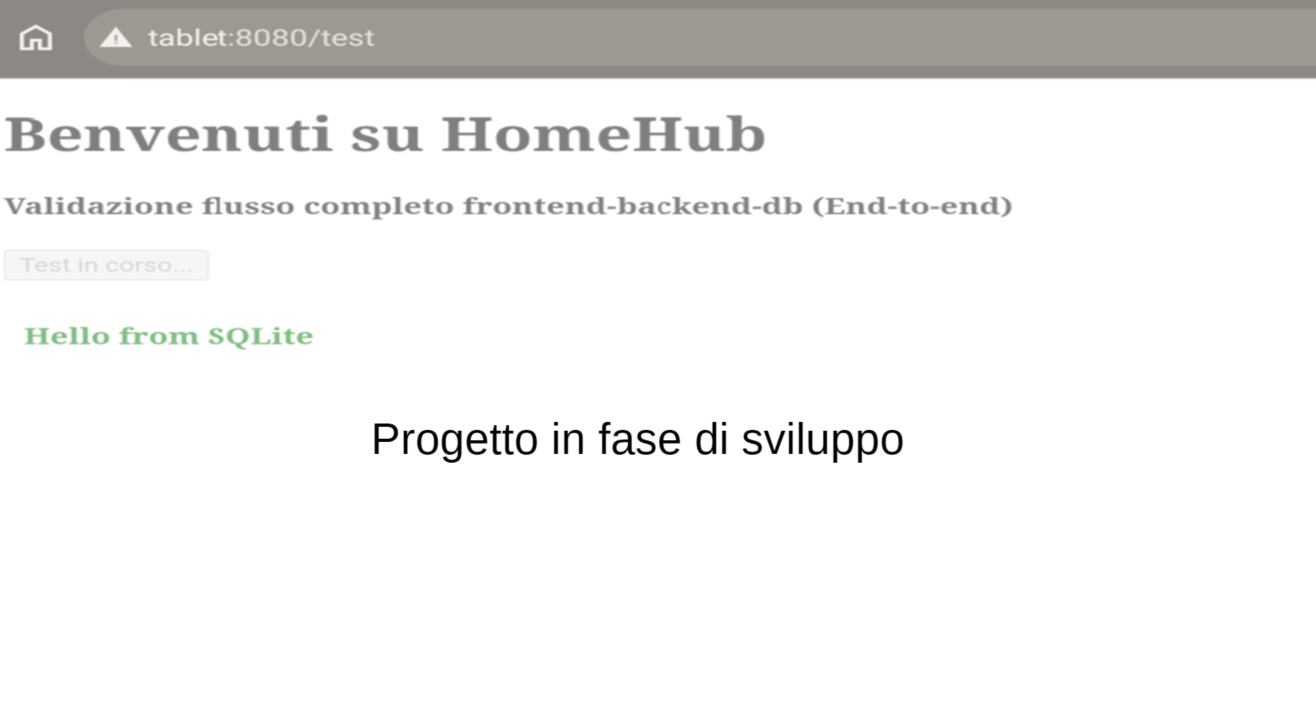
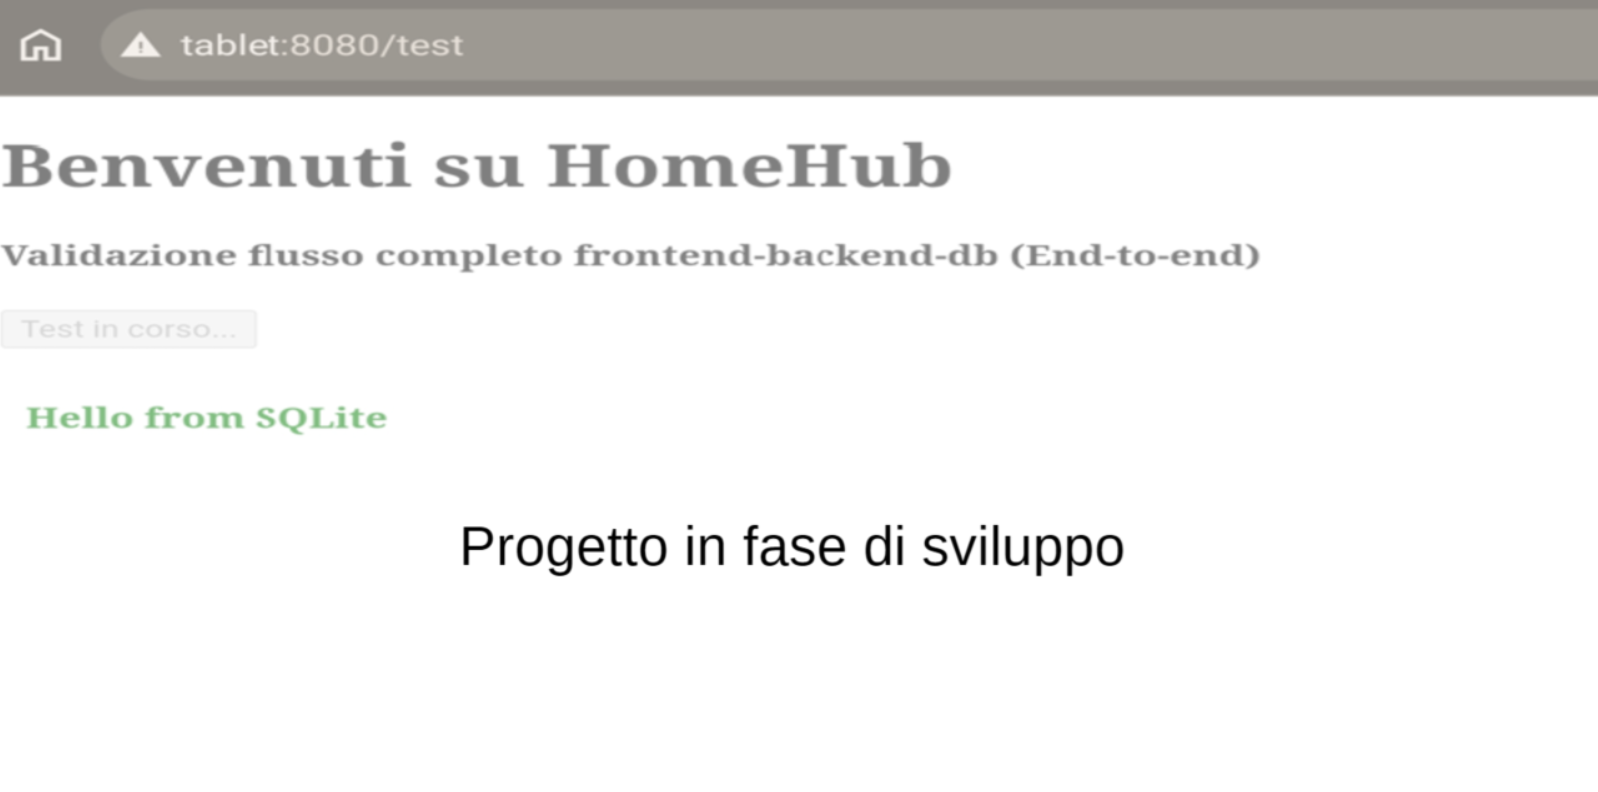
chore: aggiornamento immagini e descrizioni

diff --git a/index.html b/index.html
@@ -34,11 +34,11 @@
     <h2 class="title">Descrizione</h2>
     <div class="description">
       <p>
-        Nonostante il mio percorso formativo fosse orientato verso altri ambiti, nel 2020, con l'arrivo della pandemia, ho colto 
-        l'opportunità di entrare nel mondo dell'informatica, anche se questo significava ripartire da zero.
+        Dopo aver intrapreso un percorso universitario in un ambito completamente diverso, nel 2021 ho deciso di interrompere gli studi e cogliere 
+        l'opportunità di lavorare nel settore informatico, consapevole di dover ripartire da zero.
         <br>
-        Giorno dopo giorno ho colmato le mie lacune con curiosità e impegno, alimentando un processo di apprendimento continuo che 
-        ancora oggi sostiene la mia voglia di crescere e migliorare.
+        Giorno dopo giorno ho colmato le mie lacune con curiosità e impegno, alimentando un processo di apprendimento continuo che ancora oggi sostiene 
+        la mia voglia di crescere e migliorare.
       </p>
       <p>
         Inizialmente mi sono occupato di attività di software testing, per poi passare alla gestione di piattaforme API Gateway 
@@ -74,7 +74,7 @@
             profilo, come ad esempio personale e lavoro, oppure semplicemente tra familiari e conviventi.
             <br>
             Il sistema integra inoltre un meccanismo di notifiche Windows che permette di ricevere promemoria relativi alle attività, 
-            indipendentemente dal profilo selezionato del momento. 
+            indipendentemente dal profilo selezionato in quel momento. 
             <br>
             Avatar e suono delle notifiche possono essere personalizzati seguendo le indicazioni disponibili nelle FAQ dell'applicazione.
           </p>
@@ -106,7 +106,7 @@
             <br>
               L'applicazione combina un'interfaccia utente moderna e accattivante realizzata con Angular, un backend basato su Node.js 
               ed Express, organizzato attraverso una struttura modulare e dedicato alla gestione della logica applicativa e delle API, 
-              e un database relazionale embedded per la persistenza dei dati. 
+              e un database relazionale embedded SQLite per la persistenza dei dati. 
             <br>
               La scelta di SQLite è motivata dalla sua leggerezza e portabilità: non richiedendo un server database separato, consente 
               di gestire i dati direttamente in locale, semplificando la distribuzione e l'esecuzione dell'applicazione.
@@ -136,7 +136,7 @@
           <p class="card-title"><img src="./progetti/LinkVault/logo.png" alt="" class="logoLinkVault">LinkVault</p>
           <p class="card-subtitle">
             LinkVault è un'applicazione web progettata per la gestione e l'organizzazione dei propri link preferiti, con l'obiettivo 
-            di ridurre la necessità di utilizzare la barra dei preferiti del browser, rendendo la raccolta dei siti web accessibile
+            di ridurre l'utilizzo della barra dei preferiti e dipendere dal browser, rendendo la raccolta dei siti web accessibile
             da un'unica piattaforma.
             <br>
             Dopo aver effettuato la registrazione e aver effettuato l'accesso al proprio profilo tramite username e password, l'utente 
@@ -181,8 +181,7 @@
             <br>
             Frontend, backend e database vengono eseguiti come servizi distinti e orchestrati tramite Docker Compose. L'intero ambiente 
             applicativo può essere avviato tramite un launcher dedicato, che esegue automaticamente la build e l'avvio dello stack 
-            containerizzato, consentendo l'esecuzione del progetto senza installazioni manuali di Node.js, Angular CLI o PostgreSQL 
-            sul sistema ospite.
+            containerizzato, consentendo l'esecuzione del progetto senza installazioni manuali sul sistema ospite.
             <br>
             Questo approccio rende l'ambiente facilmente replicabile e coerente tra macchine differenti.
             </p>
@@ -209,7 +208,7 @@
       <div class="card">
         <img src="./progetti/HomeHub/HomeHub.png" alt="App 3" class="imgProject">
         <div class="card-content">
-          <p class="card-title"><img src="" alt="" class="logoTaskMan">HomeHub</p>
+          <p class="card-title"><img src="./progetti/HomeHub/logo.png" alt="" class="logoHomeHub">HomeHub</p>
           <p class="card-subtitle">
             HomeHub è un'applicazione Android progettata per essere installata ed eseguita su un tablet domestico dedicato, mantenuto 
             sempre acceso e accessibile tramite browser web da qualsiasi altro dispositivo collegato alla stessa rete locale, 

diff --git a/style.css b/style.css
@@ -35,12 +35,6 @@ body {
   border-radius: 30%;
 }
 
-.logo{
-  width: 100%;
-  height: 100%;
-  object-fit:cover;
-}
-
 .icon {
   width: 28px;
   height: 28px;
@@ -86,8 +80,18 @@ body {
 }
 
 .logo-item {
-  width: 50%;
-  margin-top: 8rem;
+  position: fixed;
+  bottom: 30px;
+  left: 0;
+  width: calc(15% + 4rem);
+  display: flex;
+  justify-content: center;
+}
+
+.logo {
+  width: 150px;
+  height: auto;
+  object-fit: contain;
 }
 
 .item {
@@ -144,16 +148,25 @@ body {
 }
 
 .logoTaskMan {
-  width: 35px;
+  width: 50px;
   height: auto;
+  margin-right: 10px;
   object-fit: contain;
 }
 
 .logoLinkVault {
-  width: 35px;
+  width: 50px;
   height: auto;
+  margin-right: 10px;
   object-fit: contain;
   filter: invert(1);
+}
+
+.logoHomeHub{
+  width: 50px;
+  height: auto;
+  margin-right: 10px;
+  object-fit: contain;
 }
 
 .itemLink {
@@ -163,6 +176,7 @@ body {
 
 .card-content {
   padding: 1rem;
+  padding-top: 0;
 }
 
 .card-title {
@@ -242,7 +256,7 @@ a:hover {
     cursor: not-allowed;
 }
 
-@media (max-width: 1024px) {
+@media (max-width: 1400px) {
 
   body {
     flex-direction: column;
